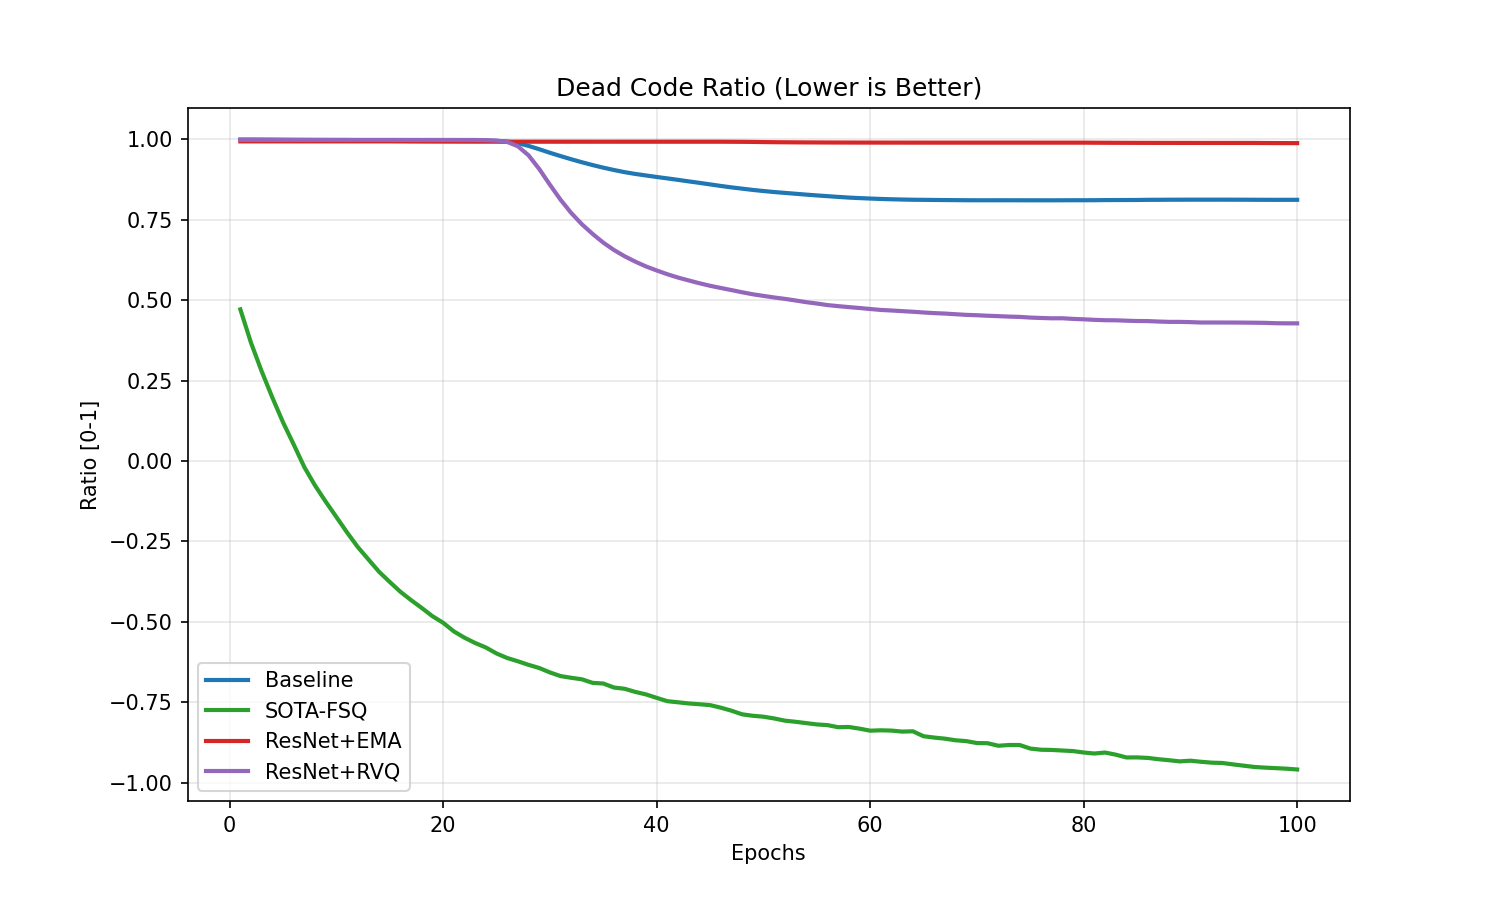
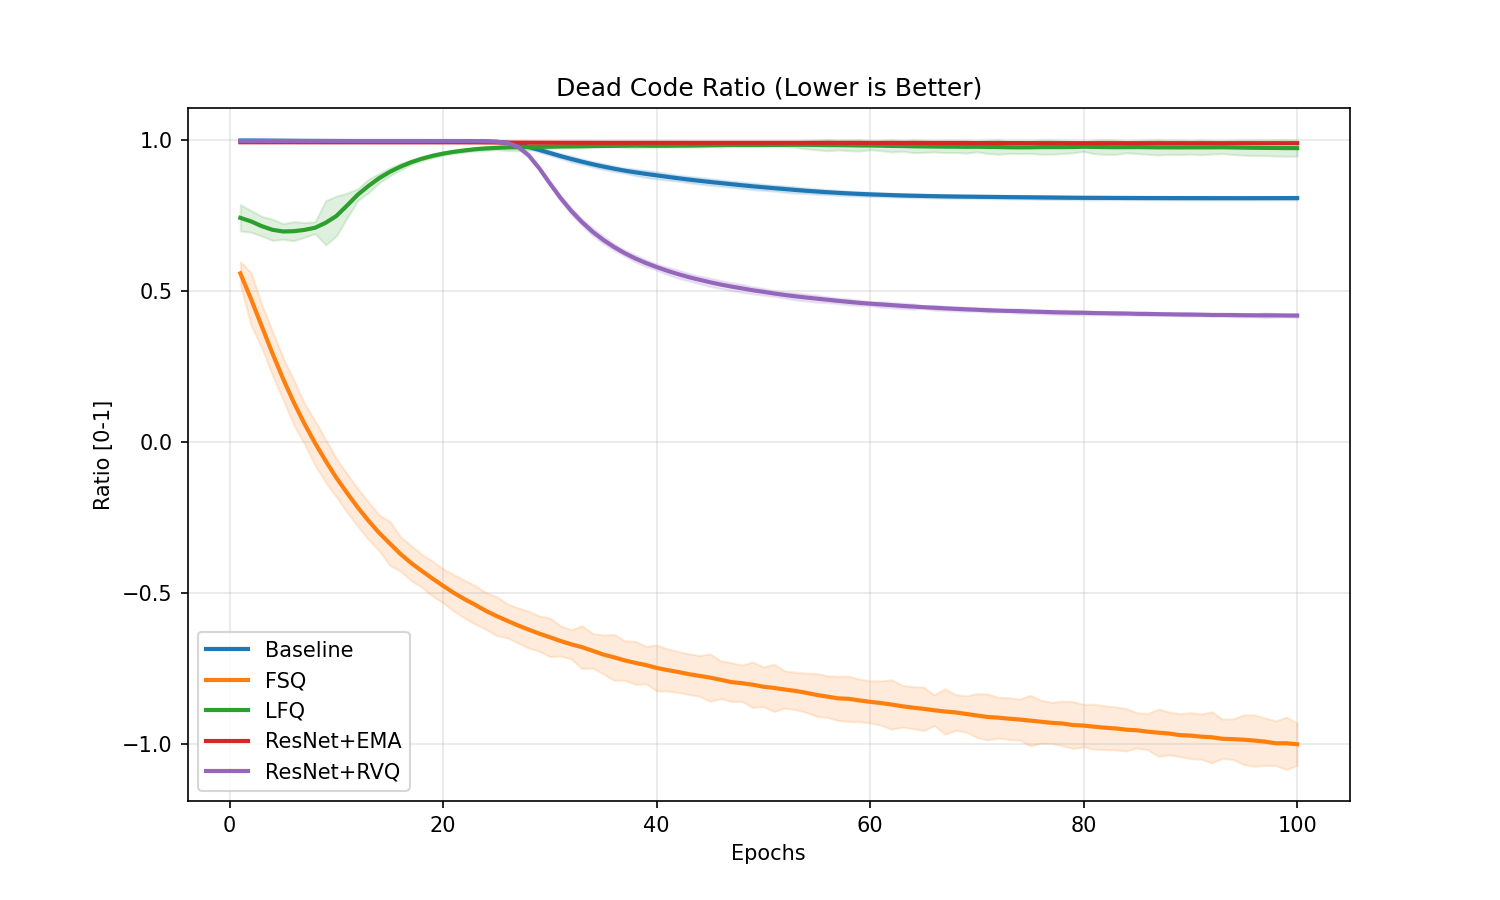
更新模型，绘图和表格输出

diff --git a/scripts/export_latex_table.py b/scripts/export_latex_table.py
@@ -1,0 +1,133 @@
+import json
+import numpy as np
+import os
+import glob
+import sys
+
+# 配置
+LOG_DIR = 'results'
+
+# 1. 修改配置部分的名称映射
+ORDERED_EXP = [
+    ('simple_ema', 'Baseline (Simple)'),
+    ('resnet_ema', 'ResNet+EMA'),  # 原 Proposed
+    ('resnet_rvq', 'ResNet+RVQ'),  # 原 Advanced
+    ('resnet_fsq', 'FSQ'),         # 原 SOTA (FSQ)
+    ('resnet_lfq', 'LFQ'),         # 原 SOTA (LFQ)
+]
+
+# 定义指标、显示名称、格式化精度、是否为百分比
+# (Key in JSON, Display Name, Decimal Places, Is Percentage)
+METRICS = [
+    ('val_recon', r'Recon Loss $\downarrow$', 4, False),
+    ('val_vel', r'Vel Loss $\downarrow$', 4, False),
+    ('val_jerk', r'Jerk Loss $\downarrow$', 4, False),
+    ('perplexity', r'PPL $\uparrow$', 1, False),
+    ('dead_code_ratio', r'Dead Code \% $\downarrow$', 1, True) 
+]
+
+def get_final_metrics(json_data, metric_key, n_epochs=5):
+    """
+    获取单个日志文件中，最后 n_epochs 的平均值
+    """
+    if metric_key not in json_data or not json_data[metric_key]:
+        return None
+    
+    values = json_data[metric_key]
+    # 取最后 n_epochs，如果不足则取所有
+    data_slice = values[-n_epochs:] if len(values) >= n_epochs else values
+    return np.mean(data_slice)
+
+# 2. 修改 load_data 函数，增加针对 FSQ 的特殊处理
+def load_data():
+    # 存储结构: data[exp_key][metric_key] = [seed1_val, seed2_val, ...]
+    data = {exp_key: {m[0]: [] for m in METRICS} for exp_key, _ in ORDERED_EXP}
+    
+    files = glob.glob(os.path.join(LOG_DIR, "log_*.json"))
+    
+    for fpath in files:
+        fname = os.path.basename(fpath)
+        try:
+            parts = fname.replace("log_", "").replace(".json", "").split("_seed_")
+            if len(parts) != 2: continue
+            
+            exp_key = parts[0]
+            if exp_key not in data: continue 
+
+            with open(fpath, 'r') as f:
+                log = json.load(f)
+            
+            # 提取每个指标
+            for m_key, _, _, is_percent in METRICS:
+                # === 修复开始: 针对 FSQ 的 Dead Code 特殊处理 ===
+                if 'fsq' in exp_key and m_key == 'dead_code_ratio':
+                    # FSQ 没有显式 Codebook，传统计算会溢出导致负数
+                    # 我们将其视为 "无死码" (0%)
+                    val = 0.0 
+                else:
+                    val = get_final_metrics(log, m_key)
+                # === 修复结束 ===
+
+                if val is not None:
+                    if is_percent and not ('fsq' in exp_key and m_key == 'dead_code_ratio'): 
+                        # FSQ 已经是 0.0 了，不需要再乘 100，或者是 0 * 100 也没关系
+                        val *= 100.0
+                    data[exp_key][m_key].append(val)
+                    
+        except Exception as e:
+            print(f"Error loading {fname}: {e}", file=sys.stderr)
+            
+    return data
+
+def generate_latex():
+    data = load_data()
+    
+    print("-" * 60)
+    print("LaTeX Table Code (Copy below):")
+    print("-" * 60)
+    print()
+    
+    # 打印表头
+    print(r"\begin{table}[h]")
+    print(r"\centering")
+    print(r"\caption{Comparison of different VQ-VAE variants on Unitree G1 motion data.}")
+    print(r"\label{tab:results}")
+    
+    # 动态生成列格式: l c c c c c
+    col_def = "l" + " c" * len(METRICS)
+    print(f"\\begin{{tabular}}{{{col_def}}}")
+    print(r"\toprule")
+    
+    # 打印列名
+    headers = ["Method"] + [m[1] for m in METRICS]
+    print(" & ".join(headers) + r" \\")
+    print(r"\midrule")
+    
+    # 打印每一行数据
+    for exp_key, exp_name in ORDERED_EXP:
+        row_str = [exp_name]
+        
+        for m_key, _, decimal, _ in METRICS:
+            values = data[exp_key][m_key]
+            
+            if not values:
+                # 如果没有数据 (比如旧日志)，显示 N/A
+                row_str.append("N/A")
+            else:
+                mean = np.mean(values)
+                std = np.std(values)
+                
+                # 格式化: Mean +/- Std
+                # 比如: 0.1234 \pm 0.0001
+                val_str = f"{mean:.{decimal}f} $\\pm$ {std:.{decimal}f}"
+                row_str.append(val_str)
+        
+        print(" & ".join(row_str) + r" \\")
+        
+    print(r"\bottomrule")
+    print(r"\end{tabular}")
+    print(r"\end{table}")
+    print()
+
+if __name__ == "__main__":
+    generate_latex()

diff --git a/scripts/plot_results.py b/scripts/plot_results.py
@@ -8,13 +8,13 @@ LOG_DIR = 'results'
 SAVE_DIR = 'plots'
 os.makedirs(SAVE_DIR, exist_ok=True)
 
-# 映射名字让图表更好看
+# 1. 更新名称映射
 NAME_MAP = {
     'simple_ema': 'Baseline',
     'resnet_ema': 'ResNet+EMA',
     'resnet_rvq': 'ResNet+RVQ',
-    'resnet_fsq': 'SOTA-FSQ',
-    'resnet_lfq': 'SOTA-LFQ'
+    'resnet_fsq': 'FSQ',
+    'resnet_lfq': 'LFQ'
 }
 
 def smooth(scalars, weight=0.8):
@@ -116,35 +116,33 @@ def plot_metric(data, metric_key, title, ylabel, filename, log_scale=False):
         print(f"Saved {filename}")
     plt.close()
 
+# 2. 修改 plot_radar 函数，增加数据清洗
 def plot_radar(data):
     summary = {}
-    
-    # 这里的 keys 顺序必须和雷达图轴的顺序对应
     metrics_list = ['val_recon', 'val_vel', 'val_jerk', 'perplexity', 'dead_code_ratio']
     
     for exp_key, metrics_dict in data.items():
-        # 检查是否所有指标都存在 (防止旧日志报错)
         is_complete = True
         temp_vals = {}
         for k in metrics_list:
             if k not in metrics_dict or not metrics_dict[k]:
-                is_complete = False
-                break
+                is_complete = False; break
             
             arr = np.array(metrics_dict[k])
-            # 安全检查：确保是二维数组 [Seeds, Epochs]
             if arr.ndim != 2 or arr.size == 0:
-                is_complete = False
-                break
+                is_complete = False; break
                 
-            # 取最后5轮的平均值 (此时把所有 Seed 混合在一起取平均)
             final_val = np.mean(arr[:, -5:]) 
+            
+            # === 修复开始: 绘图前清洗 FSQ 的异常数据 ===
+            if 'fsq' in exp_key and k == 'dead_code_ratio':
+                final_val = 0.0 # 强制修正为 0
+            # === 修复结束 ===
+            
             temp_vals[k] = final_val
             
         if is_complete:
             summary[exp_key] = temp_vals
-        else:
-            print(f"Warning: Skipping {exp_key} in Radar Chart due to missing metrics (likely old logs).")
 
     if not summary: 
         print("No valid data for Radar Chart.")
@@ -190,8 +188,12 @@ def plot_radar(data):
     ax.set_xticks(angles[:-1])
     ax.set_xticklabels(categories)
     plt.title('Relative Performance (vs Baseline)', y=1.08)
-    plt.legend(loc='upper right', bbox_to_anchor=(1.3, 1.1))
-    plt.savefig(os.path.join(SAVE_DIR, 'final_radar_chart.png'), dpi=150)
+    # === 修改开始 ===
+    # 1. bbox_to_anchor稍微调小一点 (1.3 -> 1.15) 让它靠经图表
+    # 2. 关键：savefig 加上 bbox_inches='tight'，它会自动扩展画布以包含所有内容
+    plt.legend(loc='upper right', bbox_to_anchor=(1.15, 1.1)) 
+    plt.savefig(os.path.join(SAVE_DIR, 'final_radar_chart.png'), dpi=150, bbox_inches='tight')
+    # === 修改结束 ===
     print("Saved final_radar_chart.png")
     plt.close()
 
@@ -199,15 +201,20 @@ def main():
     data = load_and_aggregate()
     if not data: return
 
-    # 1. Basic Losses
+    # 1. 核心质量指标 (对应雷达图)
     plot_metric(data, 'val_recon', 'Reconstruction Error', 'MSE', 'compare_recon.png', log_scale=True)
     plot_metric(data, 'val_vel', 'Velocity Error', 'MSE', 'compare_vel.png')
-    
-    # 2. New Metrics
     plot_metric(data, 'val_jerk', 'Jerk Error (Smoothness)', 'Jerk MSE', 'compare_jerk.png')
+    
+    # === 补全: 漏掉的 Perplexity 曲线 ===
+    plot_metric(data, 'perplexity', 'Codebook Usage (Perplexity)', 'Score', 'compare_ppl.png')
+    
     plot_metric(data, 'dead_code_ratio', 'Dead Code Ratio (Lower is Better)', 'Ratio [0-1]', 'compare_dcr.png')
     
-    # 3. Radar
+    # 2. 训练收敛情况 (新增: Total Loss，用于检查是否收敛，不一定放论文)
+    plot_metric(data, 'train_loss', 'Total Training Loss (Convergence Check)', 'Loss', 'compare_train_loss.png', log_scale=True)
+    
+    # 3. 雷达图
     plot_radar(data)
 
 if __name__ == "__main__":

diff --git a/scripts/train_ablation.py b/scripts/train_ablation.py
@@ -19,8 +19,10 @@ ABLATION_EXPERIMENTS = [
     {'name': 'Proposed (ResNet+EMA)', 'arch': 'resnet', 'method': 'ema'},
     {'name': 'Advanced (ResNet+RVQ)', 'arch': 'resnet', 'method': 'rvq'},
     {'name': 'SOTA-FSQ (ResNet+FSQ)', 'arch': 'resnet', 'method': 'fsq'},
+    # === 新增下面这一行 ===
+    {'name': 'SOTA-LFQ (ResNet+LFQ)', 'arch': 'resnet', 'method': 'lfq'},
 ]
-SEEDS = [42, 1024] # 减少为2个以快速演示，实际可用更多
+SEEDS = [42, 1024,999,2024,2025] # 减少为2个以快速演示，实际可用更多
 
 BATCH_SIZE = 256
 EPOCHS = 100
